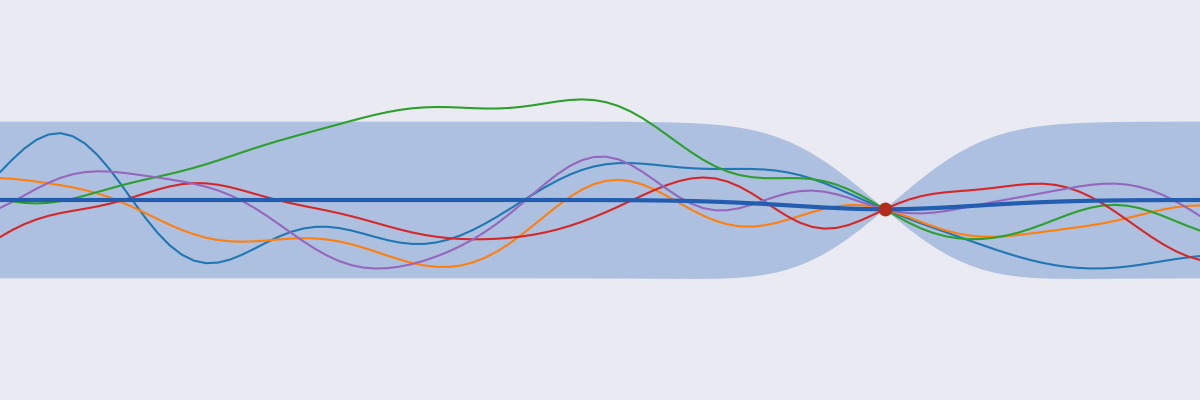
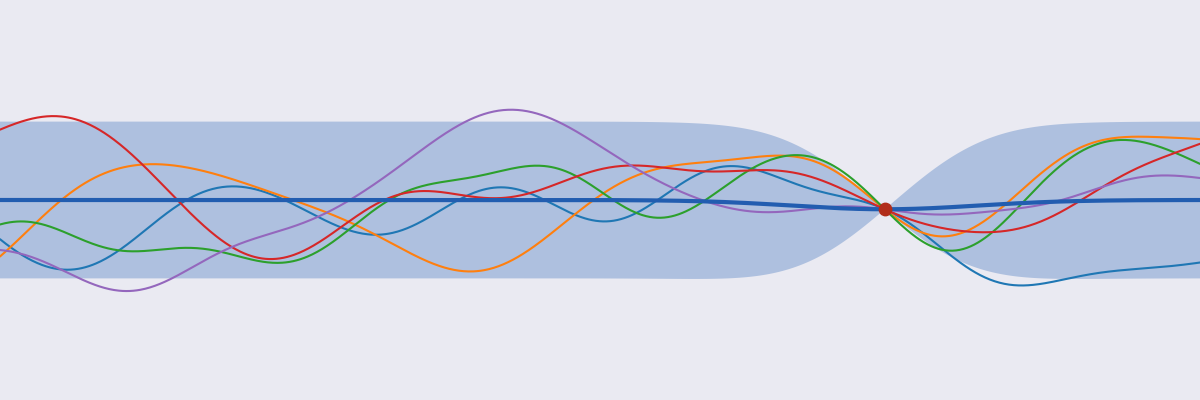
FIG: matern and lengthscale

diff --git a/latex/chap_hyperopt.tex b/latex/chap_hyperopt.tex
@@ -198,16 +198,42 @@ We glossed over the choice of kernel until now. The most common is the one we us
 	k(\mathrm{x}, \mathrm{x'}) = \sigma^2 \exp\left( -\frac{||\mathrm{x} - \mathrm{x'}||_2}{2l^2}\right)
 \end{equation}
 
-This kernel has two hyper-parameters $\theta = \{ \sigma^2 , l \}$. $\sigma^2$ controls the scale of the predicted output and $l$ is a vector of same dimensionality as $\mathrm{x}$ called the characteristic length-scale which measures how much a change along each dimension affects the output. A low value means that a small change in the input results in a big change in the output. 
+This kernel has two hyper-parameters $\theta = \{ \sigma^2 , l \}$. $\sigma^2$ controls the scale of the predicted output and $l$ is a vector of same dimensionality as $\mathrm{x}$ called the characteristic length-scale which measures how much a change along each dimension affects the output. A low value means that a small change in the input results in a big change in the output, as shown in Figure~\ref{fig:gp_lengthscale}.
+
+\begin{figure}[htb]
+    \centering
+    \begin{subfigure}[b]{\textwidth}
+        \includegraphics[width=\textwidth]{img_hyperopt/gp_lengthscale_small}
+        \caption{$l = 0.3$}
+    \end{subfigure}
+
+    \begin{subfigure}[b]{\textwidth}
+        \includegraphics[width=\textwidth]{img_hyperopt/gp_lengthscale_big}
+        \caption{$l = 3$}
+    \end{subfigure}
+    \caption{Gaussian process posterior after six points with different length-scale. On the top with a low length-scale, data points are almost irrelevant, the Gaussian process returns to its prior almost immediately. On the bottom, the GP has a very high confidence in its prediction.}
+    \label{fig:gp_lengthscale}
+\end{figure}
 
 The samples from this kernel are very smooth, and are in fact infinitely differentiable. This is usually too unrealistic for the process we are trying to model. In the context of Bayesian optimization, a more realistic alternative is the Matérn $5/2$ kernel
 \begin{equation}
     k(r) = \sigma^2 \left( 1 + \frac{\sqrt{5}r}{l} + \frac{5r^2}{3l^2} \right) \exp \left( - \frac{\sqrt{5}r}{l}\right)
 \end{equation}
 
-where $r = \mathrm{x} - \mathrm{x'}$. The Matérn covariance functions are a class of kernel with two parameters $l$ and $\nu$. $\sigma^2$ and $l$ have the same role as for the squared exponential kernel and $\nu$ is a measure of how smooth the function is. The chosen value of $\nu = 5/2$ means the samples will be twice differentiable. $\nu = 1/2$ results in a very rough function while $\nu \to \infty$ is the squared exponential kernel. $5/2$ is a good compromise between too smooth and too difficult to optimize $\theta$ as many point estimate methods requires twice differentiability (\textcite{snoek2012NIPS}). Figure TODO shows what samples from these kernels look like.
+where $r = \mathrm{x} - \mathrm{x'}$. The Matérn covariance functions are a class of kernel with two parameters $l$ and $\nu$. $\sigma^2$ and $l$ have the same role as for the squared exponential kernel and $\nu$ is a measure of how smooth the function is. The chosen value of $\nu = 5/2$ means the samples will be twice differentiable. $\nu = 1/2$ results in a very rough function while $\nu \to \infty$ is the squared exponential kernel. $5/2$ is a good compromise between too smooth and too difficult to optimize $\theta$ as many point estimate methods requires twice differentiability (\textcite{snoek2012NIPS}). Figure~\ref{fig:gp_matern} shows what samples from these kernels look like.
 
-[TODO fig influence of $\nu$]
+\begin{figure}[htb]
+    \centering
+    \begin{subfigure}[b]{\textwidth}
+        \includegraphics[width=\textwidth]{img_hyperopt/gp_matern_prior}
+    \end{subfigure}
+
+    \begin{subfigure}[b]{\textwidth}
+        \includegraphics[width=\textwidth]{img_hyperopt/gp_matern_posterior}
+    \end{subfigure}
+    \caption{Gaussian process using a Matérn $5/2$ kernel. On the top, the prior. On the bottom, the posterior after fitting six points.}
+    \label{fig:gp_matern}
+\end{figure}
 
 The kernels presented have the common property of being stationary, i.e they depend only of $\mathrm{x} - \mathrm{x'}$. They are invariant to translation. It's very relevant in the context of hyper-parameter optimization as the kernels make no difference between values of 3 and 2 or 1000 and 999. Depending on the meaning of the hyper-parameters, this is not desirable. The solution is to use a non-stationary kernel, which we discuss in Section~\ref{ssec:nosta}.
 
